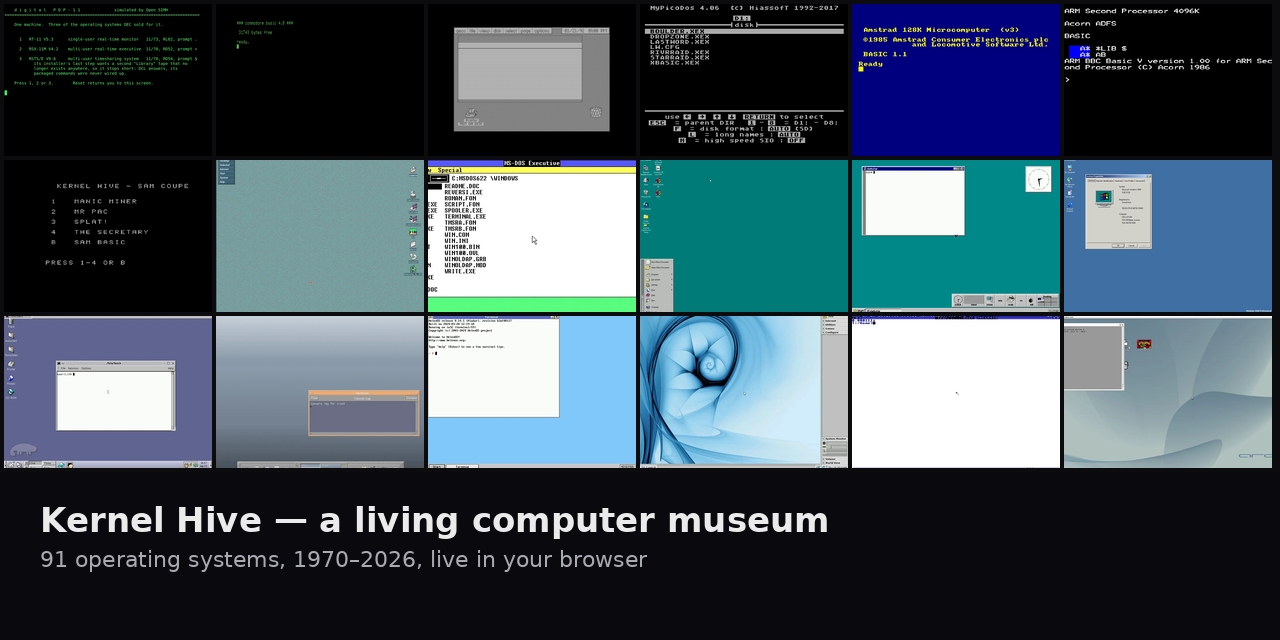
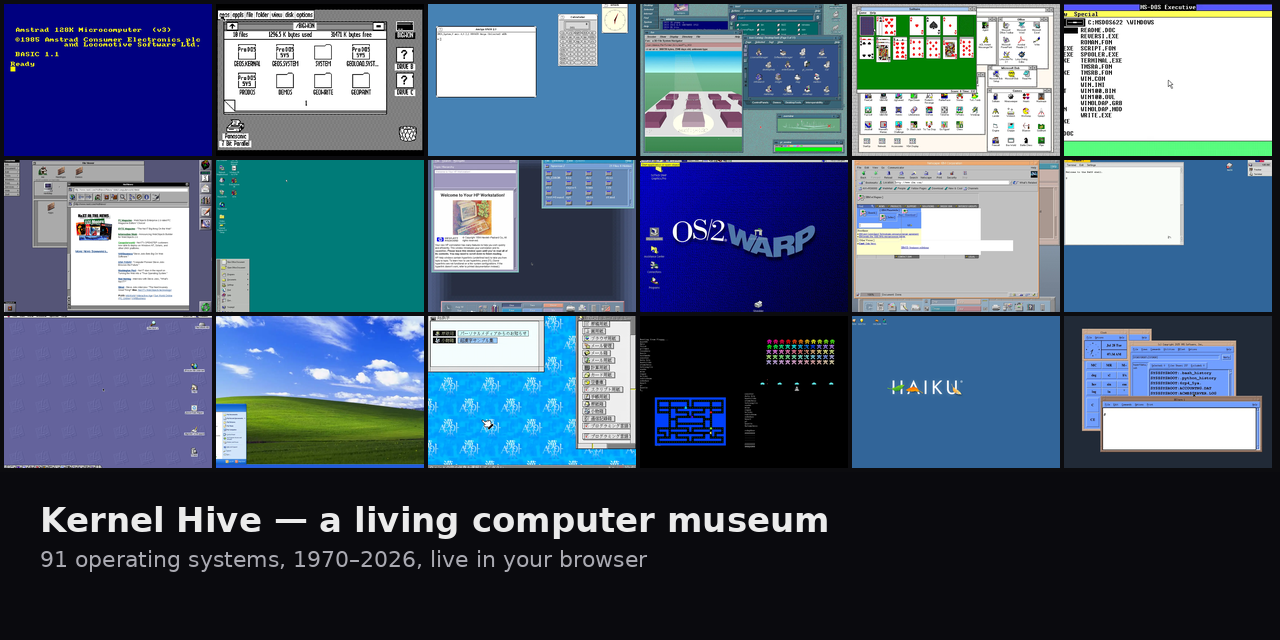
readme-media: curate the hero and social-preview tiles by eye — the evenly-by-year pick chose blank and near-empty frames; the 20 ids are pinned, the preview is the same list minus the two text-mode 8-bit frames
Claude-Session: https://claude.ai/code/session_01C28JHPehTPmUqvGXDD3pcU

diff --git a/scripts/readme_media_lib.py b/scripts/readme_media_lib.py
@@ -25,23 +25,40 @@ README_END = "<!-- lineup:end -->"
 GALLERY_BASE = "https://kernelhive.madekivi.fi/os"
 POSTER_REL = "spa/public/posters/{id}/desktop.webp"
 
-# Hero mosaic (20 tiles): these ids are always included when present in the
-# registry — a deliberate, hand-picked spread across eras and families so the
-# mosaic reads as "computer museum", not "whatever sorted first".
+# Hero mosaic (20 tiles): a CURATED list, chosen by eye from a contact sheet
+# of every desktop.webp — the frames that read as "computer museum" at
+# thumbnail size (colour, a recognisable desktop, something on screen). An
+# evenly-spaced-by-year pick was tried first and chose blank white and
+# near-empty frames; visual weight cannot be derived from the registry. Every
+# id here that exists in the registry is used, in this order; only if one is
+# missing does an evenly-year-spaced fill top the count up. Re-curate when a
+# station's poster is recaptured or a stronger machine lands.
 HERO_REQUIRED_IDS = (
-    "c64",
+    "apple2",
+    "amstradcpc",
+    "vic20",
+    "atari800xl",
     "msdoswin1",
+    "win311",
+    "os2warp",
     "win95",
-    "solaris",
-    "irix",
     "nextstep",
-    "beos",
-    "macos9",
+    "irix",
+    "hpuxvue",
+    "aix432",
     "amix",
+    "beos",
+    "chokanji",
+    "macos9",
+    "winxp",
     "haiku",
-    "templeos",
+    "openvms",
     "bootos",
 )
+
+# Social preview (18 tiles): the hero list minus the two text-mode 8-bit
+# frames, which are illegible at the 1280x640 card size.
+PREVIEW_OMIT_IDS = ("vic20", "atari800xl")
 
 HERO_COUNT = 20
 PREVIEW_COUNT = 18
@@ -159,10 +176,11 @@ def select_hero_rows(rows: list[dict[str, Any]], count: int = HERO_COUNT) -> lis
 
 
 def select_preview_rows(rows: list[dict[str, Any]], count: int = PREVIEW_COUNT) -> list[dict[str, Any]]:
-    """18 (default) rows for the social-preview mosaic — a plain evenly-spread
-    sample across the live lineup, no hand-picked requirements."""
-    live = sorted((r for r in rows if is_live(r)), key=_sort_key)
-    return _pick_evenly(live, count)
+    """18 (default) rows for the social-preview mosaic: the curated hero list
+    minus PREVIEW_OMIT_IDS, topped up from the hero fill if short."""
+    hero = select_hero_rows(rows, count=count + len(PREVIEW_OMIT_IDS))
+    kept = [r for r in hero if r["id"] not in PREVIEW_OMIT_IDS]
+    return kept[:count]
 
 
 def decade_for(year: int) -> str:

diff --git a/README.md b/README.md
@@ -223,6 +223,7 @@ Backends retired; the SPA renders a static placard rather than dialing a dead se
 <!-- lineup:end -->
 
 
+
 ## How it works
 
 ![Browser, streaming daemon and emulator, with the retronet plane beside them](docs/media/architecture.svg)
